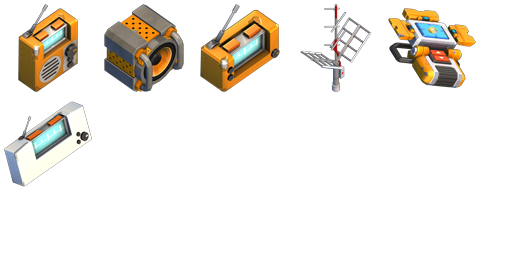
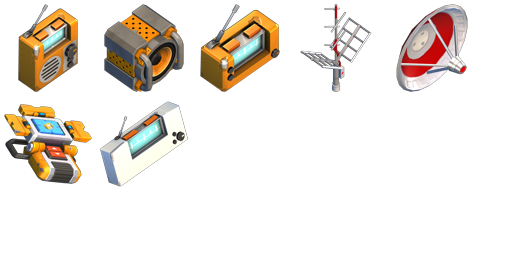
Add Satellite Dish (CustomAntenna)

diff --git a/README-RU.md b/README-RU.md
@@ -1,59 +1,44 @@
-## Custom Radio (Radio Mod)
-**Custom Radio** — это мод для [Scrap Mechanic](https://store.steampowered.com/app/387990/Scrap_Mechanic/), который добавляет радиоприемники, способные воспроизводить как встроенную, так и пользовательскую музыку — без замены файлов игры.
+# SM-RadioMod (Custom Radio) / RU
 
-[>> English version <<](https://github.com/Xrisofor/SM-RadioMod/blob/main/README.md)
+![Mod Preview](https://github.com/Xrisofor/SM-RadioMod/blob/main/preview.jpg?raw=true)
 
-## Как это работает?
-* Установите необходимые зависимости:
-  * [SM-DLL-Injector](https://github.com/QuestionableM/SM-DLL-Injector/releases/)
-  * [SM-CustomAudioExtension](https://github.com/QuestionableM/SM-CustomAudioExtension/releases/)
-* Активируйте мод и [Mod Database](https://steamcommunity.com/workshop/filedetails/?id=2504530003) в игровом мире.
+**Custom Radio** - то самое привычное радио, но с поддержкой ваших собственных треков. Слушайте свою любимую музыку где угодно и как угодно!
 
-## Какие объекты включены?
-* Custom Radio
-* Mini Custom Radio
-* Portable Radio
-* Radio Speaker
-* Radio Remote Control
-* Device Timer *(only works in worlds where time flows)*
+> **Важно:** Модификация находится на стадии **бета-тестирования (Beta)**. Некоторые функции могут дорабатываться или работать нестабильно. Буду признателен за сообщения о найденных ошибках!
 
-## Почему стоит выбрать Custom Radio?
-* **Без замены файлов** — Не нужно перезапускать игру или заменять ``.bank`` файлы.
-* **Высокая совместимость** — Минимальные конфликты с другими модами, даже если они используют собственные звуки.
-* **Удобство** — Управление музыкой через понятные игровые устройства.
+# Установка
 
-## Какие треки включены?
-Бета-версия мода включает следующие плейлисты:
-* Scrap Mechanic - Radio
-* Scrap Mechanic - Elevator Music
-* Scrap Mechanic - North Korea
-* [Phonk Radio - Radio Mod](https://en.wikipedia.org/wiki/Phonk)
-* [Russian Hardbass Radio - E (RU)](https://steamcommunity.com/sharedfiles/filedetails/?id=2476541477)
-* [Neon Genesis Evangelion - Shiro SAGISU](https://en.wikipedia.org/wiki/Neon_Genesis_Evangelion)
-* [Compilation #1 - Korol i Shut (RU)](https://en.wikipedia.org/wiki/Korol_i_Shut)
+- Скачайте и установите необходимые расширения:
+  - [SM-DLL-Injector](https://github.com/QuestionableM/SM-DLL-Injector/#how-to-install)
+  - [SM-CustomAudioExtension](https://github.com/QuestionableM/SM-CustomAudioExtension#how-to-download-and-enable)
+- Включите **Custom Radio** в настройках вашего игрового мира.
 
-## Хотите добавить свою музыку?
-Вы можете настроить радио для воспроизведения собственных треков двумя способами:
+Подробное руководство по установке доступно в файле [README на GitHub](https://github.com/Xrisofor/SM-RadioMod/blob/main/README.md).
 
-### Вариант 1 — Ручная настройка
-Следуйте [инструкции в Wiki](https://github.com/Xrisofor/SM-RadioMod/wiki/How-to-Use-Custom-Radio) для настройки ``sm_cae_config.json`` и ``custom_effects.json``.
+# Содержимое модификации
 
-### Вариант 2 — Custom Radio Manager
-Используйте программу [Custom Radio Manager](https://drive.google.com/file/d/1ndqaF3vAaxhKE7nunuXn1MYdKF-Y13Tn/view) для:
-* Автоматической настройки
-* Загрузки необходимых расширений
-> ⚠ Требуется [Microsoft .NET Framework 4.7.2](https://dotnet.microsoft.com/ru-ru/download/dotnet-framework/net472).
+- **Пользовательское радио** - ваш личный медиацентр, проигрывающий как стандартные треки, так и загруженные вами аудиофайлы.
+- **Мини-пользовательское радио** - уменьшенная версия приемника, которая сохранила весь функционал, но теперь легко поместится в кабину любого автомобиля.
+- **Портативное радио** - мобильное устройство, позволяющее слушать музыку в любом месте.
+- **Радиодинамик** - вспомогательный динамик для трансляции звука в удаленных частях построек или транспорта.
+- **Пульт управления радио** - инструмент для дистанционного переключения треков на связанном с ним радиоприемнике.
+- **Антенна** - подключается к радиоприемнику и транслирует текущую музыку на определенную частоту.
 
-> ⚠ ВАЖНО:
-> Если вы используете собственный мод с Custom Radio, он должен быть **опубликован и включен в мире.**
-> В противном случае, [Mod Database](https://steamcommunity.com/workshop/filedetails/?id=2504530003) **не сможет его обнаружить и загрузить.**
+# Особенности модификации
 
-## Редактирование основного мода
-Вы можете вручную изменить файлы основного мода. Однако:
-> ❗ Любое **обновление или переустановка мода** могут **удалить ваши изменения.**
-Рекомендуется создать **отдельный мод**, совместимый с Custom Radio, для долговременного использования.
+- **Чистая интеграция звука** - воспроизведение музыки происходит без замены оригинальных файлов Scrap Mechanic на базе библиотеки *SM-CustomAudioExtension* (CAE).
+- **Программное управление через [SComputers](https://steamcommunity.com/sharedfiles/filedetails/?id=2949350596)** - радио поддерживает полноценный API. Вы можете писать внутриигровые скрипты на Lua, чтобы автоматически включать/выключать музыку, переключать треки и считывать текущее состояние приемника.
+- **Поддержка режима Выживания** - благодаря интеграции с [Modded Craftbot Recipes](https://steamcommunity.com/sharedfiles/filedetails/?id=2816900681), все компоненты мода (приемники, динамики, пульты, антенны) можно скрафтить.
+- **Поддержка музыкальных аддонов** - возможность расширять фонотеку готовыми подборками от других авторов без конфликтов и ручной настройки конфигураций.
+- **Беспроводная FM-сеть** - настраивайте антенны и радиоприемники на любую из 256 частот (0–255), чтобы транслировать музыку по воздуху между постройками и транспортом.
+- **Акустические системы (Мультирум)** - подключайте к одному радио до 15 внешних динамиков. Они синхронно воспроизводят трек, подстраиваясь под изменения громкости и скорости основного устройства.
+- **Полный контроль над воспроизведением** - удобный графический интерфейс с регулировкой громкости, скорости проигрывания (питча), режимом случайного выбора (Shuffle) и тремя режимами повтора.
+- **Интеграция с логикой игры** - помимо компьютеров, радио поддерживает стандартное управление через триггеры, сенсоры, кнопки, таймеры и сиденья водителя.
 
-## Планы на будущее
-* Больше музыкальных плейлистов
-* Новые устройства
-* Исправление ошибок и улучшения
+# Добавление собственной музыки
+
+Хотите слушать в игре свои треки? Вы можете легко собрать их в отдельный аддон. Простой и удобный API позволяет зарегистрировать ваши аудиофайлы и плейлисты буквально в несколько строк кода.
+
+Подробное пошаговое руководство с готовыми примерами кода опубликовано в [официальной Wiki проекта на GitHub](https://github.com/Xrisofor/SM-RadioMod/wiki).
+
+> Обратите внимание: чтобы ваши треки появились на радиоприемниках, созданный вами музыкальный аддон должен быть включен в списке модификаций вашего игрового мира.

diff --git a/README.md b/README.md
@@ -1,59 +1,44 @@
-## Custom Radio (Radio Mod)
-**Custom Radio** is a mod for [Scrap Mechanic](https://store.steampowered.com/app/387990/Scrap_Mechanic/) that adds radios capable of playing both built-in and user-added music — all without replacing core game files.
+# SM-RadioMod (Custom Radio) / EN
 
-[>> Русская версия <<](https://github.com/Xrisofor/SM-RadioMod/blob/main/README-RU.md)
+![Mod Preview](https://github.com/Xrisofor/SM-RadioMod/blob/main/preview.jpg?raw=true)
 
-## How does it work?
-* Install the required dependencies:
-  * [SM-DLL-Injector](https://github.com/QuestionableM/SM-DLL-Injector/releases/)
-  * [SM-CustomAudioExtension](https://github.com/QuestionableM/SM-CustomAudioExtension/releases/)
-* Enable the mod and [Mod Database](https://steamcommunity.com/workshop/filedetails/?id=2504530003) in your game world.
+**Custom Radio** - the same familiar in-game radio, but now with support for your own custom tracks. Listen to your favorite music anywhere, any way you want!
 
-## What objects are included?
-* Custom Radio
-* Mini Custom Radio
-* Portable Radio
-* Radio Speaker
-* Radio Remote Control
-* Device Timer *(only works in worlds where time flows)*
+> **Important:** This mod is currently in **Beta**. Some features are still being worked on and may behave unpredictably. Bug reports are highly appreciated!
 
-## Why use Custom Radio?
-* **No file replacement** — You don’t need to restart the game or replace ``.bank`` files.
-* **High compatibility** — Minimal conflicts with other mods, even those using their own sounds.
-* **Ease of use** — Control music with intuitive in-game devices.
+# Installation
 
-## Included tracks
-This beta version includes the following playlists:
-* Scrap Mechanic - Radio
-* Scrap Mechanic - Elevator Music
-* Scrap Mechanic - North Korea
-* [Phonk Radio - Radio Mod](https://en.wikipedia.org/wiki/Phonk)
-* [Russian Hardbass Radio - E (RU)](https://steamcommunity.com/sharedfiles/filedetails/?id=2476541477)
-* [Neon Genesis Evangelion - Shiro SAGISU](https://en.wikipedia.org/wiki/Neon_Genesis_Evangelion)
-* [Compilation #1 - Korol i Shut (RU)](https://en.wikipedia.org/wiki/Korol_i_Shut)
+- Download and install the required extensions:
+  - [SM-DLL-Injector](https://github.com/QuestionableM/SM-DLL-Injector/#how-to-install)
+  - [SM-CustomAudioExtension](https://github.com/QuestionableM/SM-CustomAudioExtension#how-to-download-and-enable)
+- Enable **Custom Radio** in your world settings.
 
-## Want to add your own music?
-You can customize the radio to play your own tracks in two ways:
+A detailed installation guide is available in the [README on GitHub](https://github.com/Xrisofor/SM-RadioMod/blob/main/README.md).
 
-### Option 1 — Manual setup
-Follow [the wiki guide](https://github.com/Xrisofor/SM-RadioMod/wiki/How-to-Use-Custom-Radio) to configure ``sm_cae_config.json`` and ``custom_effects.json``.
+# Mod Contents
 
-### Option 2 — Custom Radio Manager
-Use the [Custom Radio Manager](https://drive.google.com/file/d/1ndqaF3vAaxhKE7nunuXn1MYdKF-Y13Tn/view) app to:
-* Automate setup
-* Install required extensions
-> ⚠ Requires [Microsoft .NET Framework 4.7.2](https://dotnet.microsoft.com/ru-ru/download/dotnet-framework/net472).
+- **Custom Radio** - your personal media center that plays both vanilla tracks and your own custom audio files.
+- **Mini Custom Radio** - a smaller version of the receiver that retains full functionality, but easily fits into the cabin of any vehicle.
+- **Portable Radio** - a mobile device that lets you listen to music on the go.
+- **Radio Speaker** - an auxiliary speaker to broadcast audio to remote parts of your builds or vehicles.
+- **Radio Remote Control** - a tool for remotely switching tracks on a linked radio receiver.
+- **Antenna** - connects to a radio receiver and broadcasts the currently playing music to a specific frequency.
 
-> ⚠ IMPORTANT:
-> If you're using your own mod with Custom Radio, it **must be published and enabled in the game.**
-> Otherwise, [Mod Database](https://steamcommunity.com/workshop/filedetails/?id=2504530003) will not detect or load your mod.
+# Mod Features
 
-## Editing the Main Mod
-You can manually modify the main mod files. However:
-> ❗ Any **mod update or reinstallation** may **overwrite your changes**.
-For long-term use, it's recommended to create your own **separate mod** that works with Custom Radio.
+- **Clean Audio Integration** - music is played without replacing any vanilla Scrap Mechanic files, powered by the *SM-CustomAudioExtension* (CAE).
+- **Script Control via [SComputers](https://steamcommunity.com/sharedfiles/filedetails/?id=2949350596)** - the radio supports a full API. You can write in-game Lua scripts to automate play/stop functions, switch tracks, and read the receiver's current state.
+- **Survival Mode Support** - thanks to integration with [Modded Craftbot Recipes](https://steamcommunity.com/sharedfiles/filedetails/?id=2816900681), all mod components (receivers, speakers, remotes, antennas) can be crafted.
+- **Custom Music Pack Support** - expand your library with ready-made music packs from other creators without conflicts or manual config file editing.
+- **Wireless FM Network** - tune antennas and radio receivers to any of the 256 frequencies (0–255) to broadcast music wirelessly between your builds and vehicles.
+- **Multi-Speaker Systems (Multiroom)** - connect up to 15 external speakers to a single radio. They will synchronously replicate the audio, adjusting to volume and speed (pitch) changes from the main device.
+- **Full Playback Control** - a user-friendly GUI with volume control, speed adjustment (pitch), shuffle, and three repeat modes.
+- **Logic System Integration** - besides computers, the radio supports standard control via triggers, sensors, buttons, timers, and driver seats.
 
-## Future Plans
-* More music playlists
-* Additional radio devices
-* General bug fixes and improvements
+# Adding Custom Music
+
+Want to listen to your own tracks in-game? You can easily package them into an independent add-on. A simple and straightforward API lets you register your audio files and playlists in just a few lines of code.
+
+A detailed, step-by-step guide with ready-to-use code examples is published on the [official project Wiki on GitHub](https://github.com/Xrisofor/SM-RadioMod/wiki).
+
+> Please note: for your tracks to appear on the radio receivers, your custom music add-on must be enabled in the mod list of your game world.
